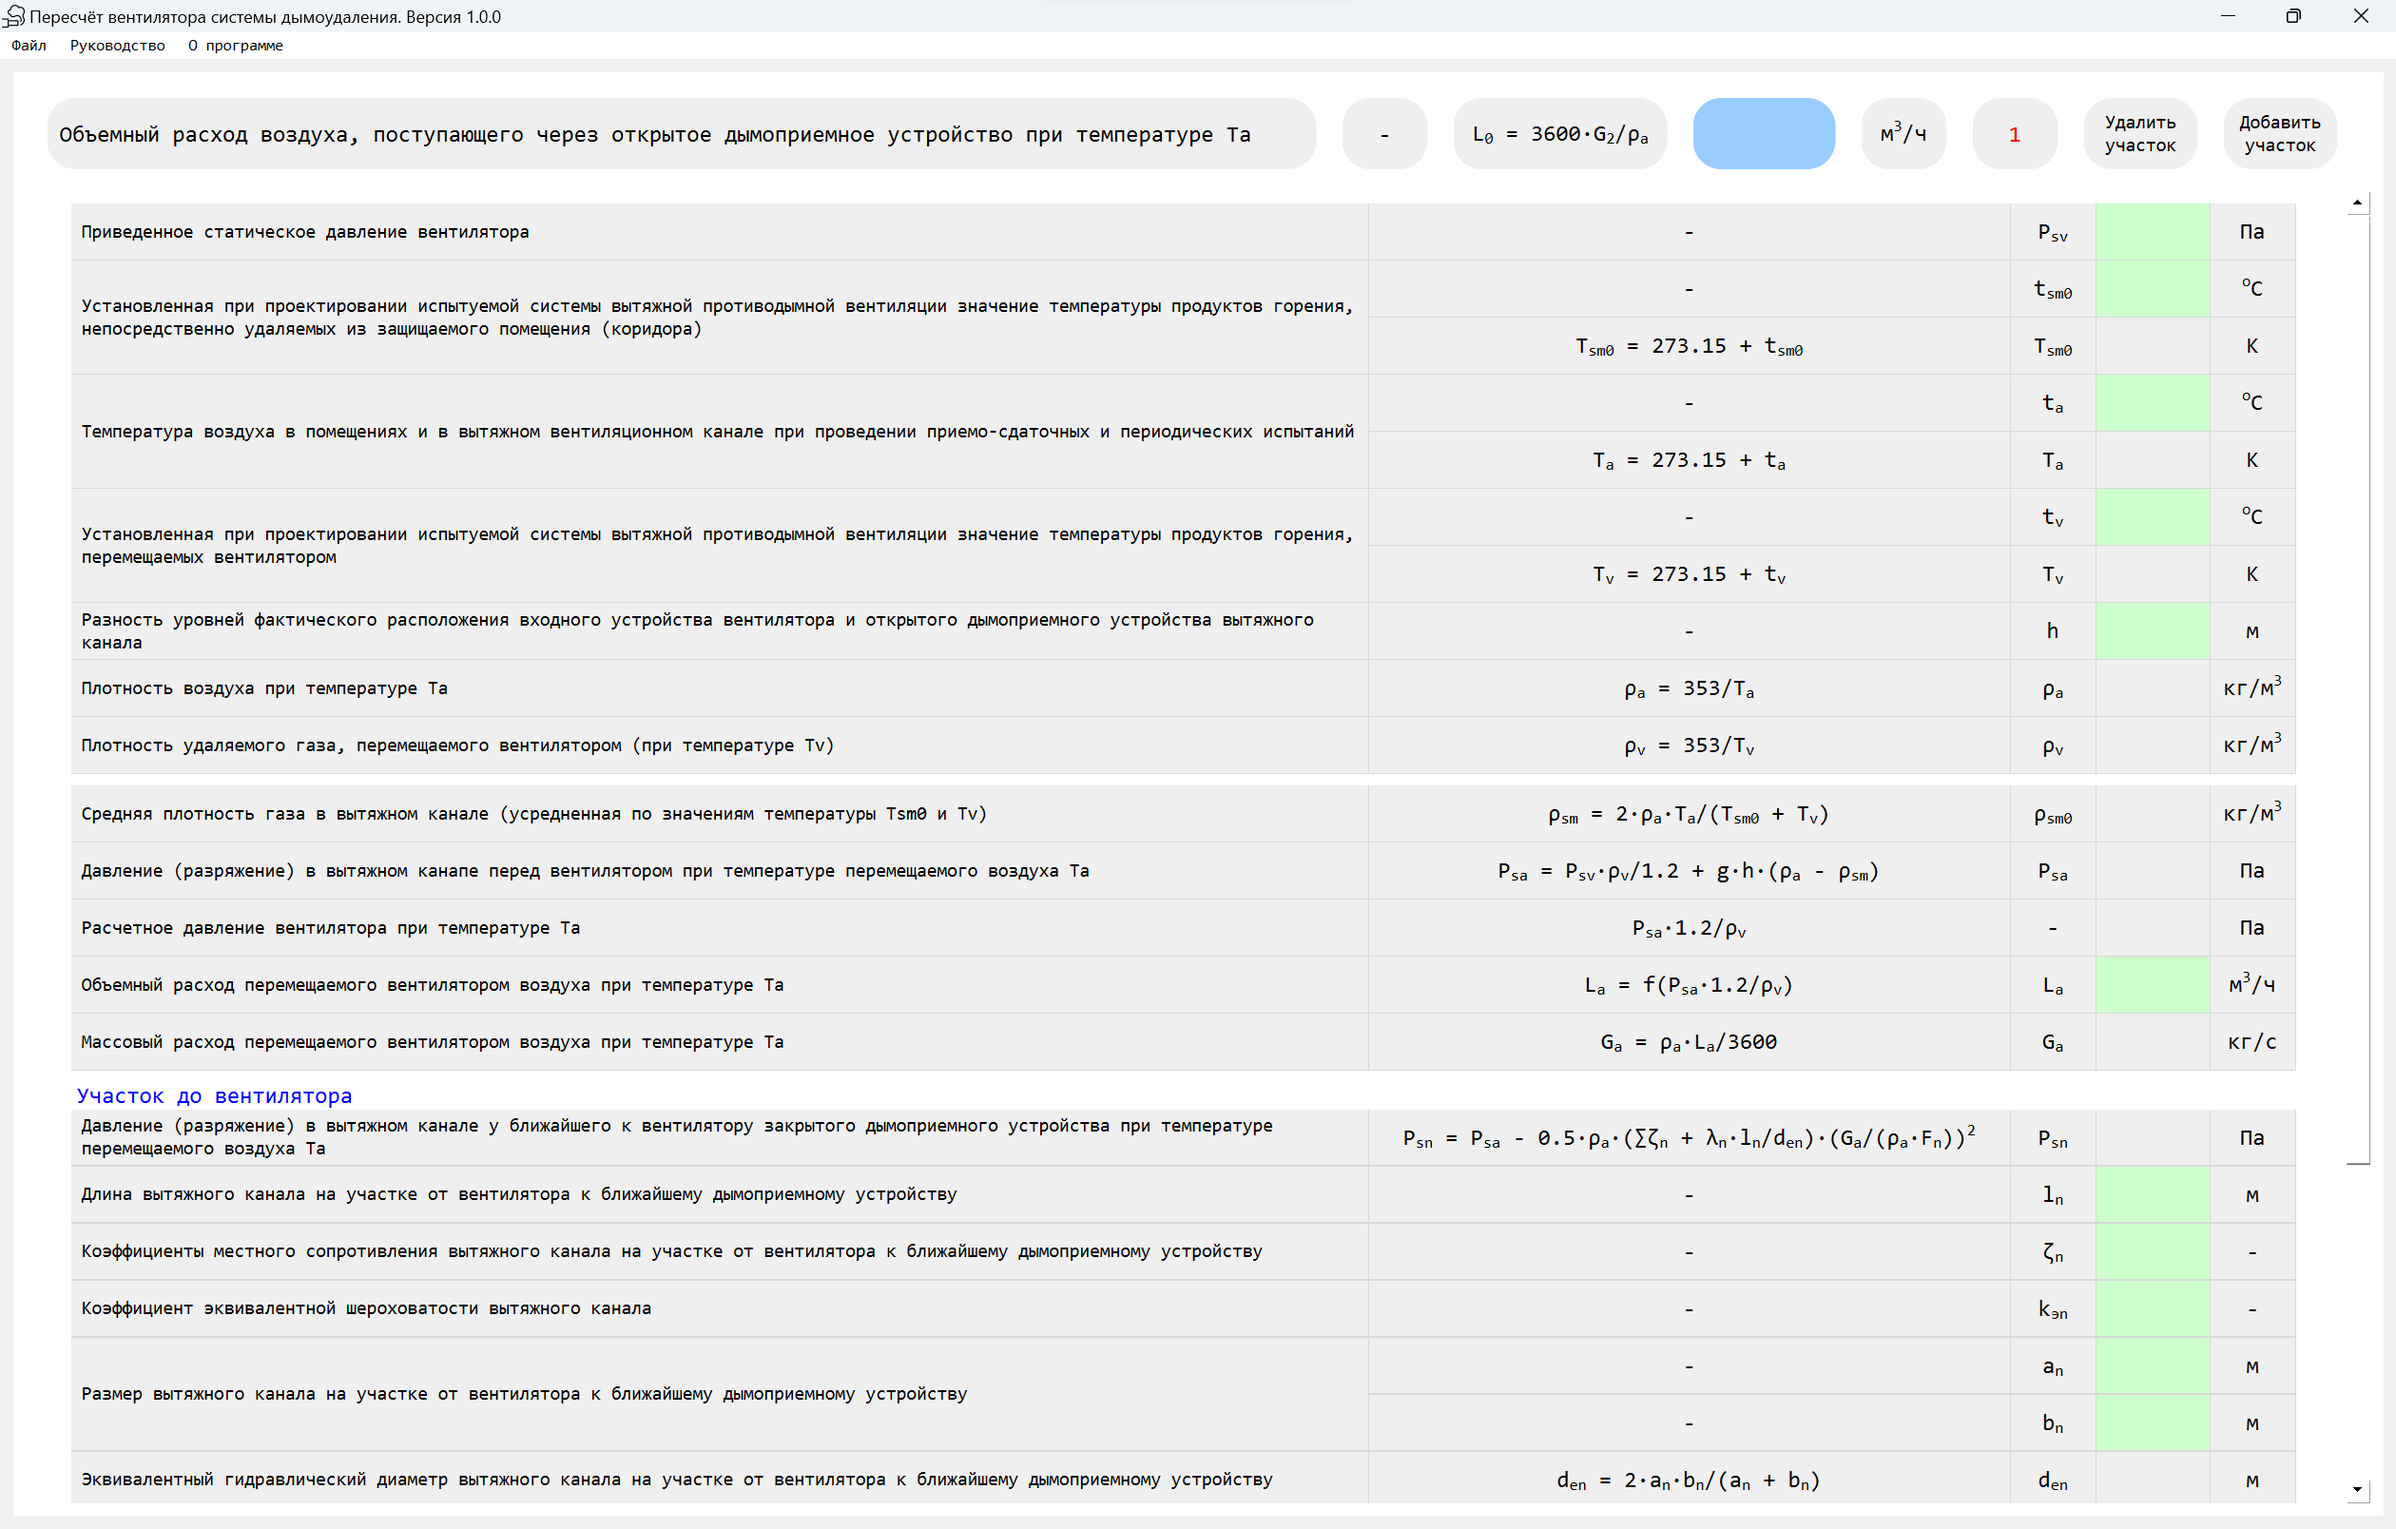
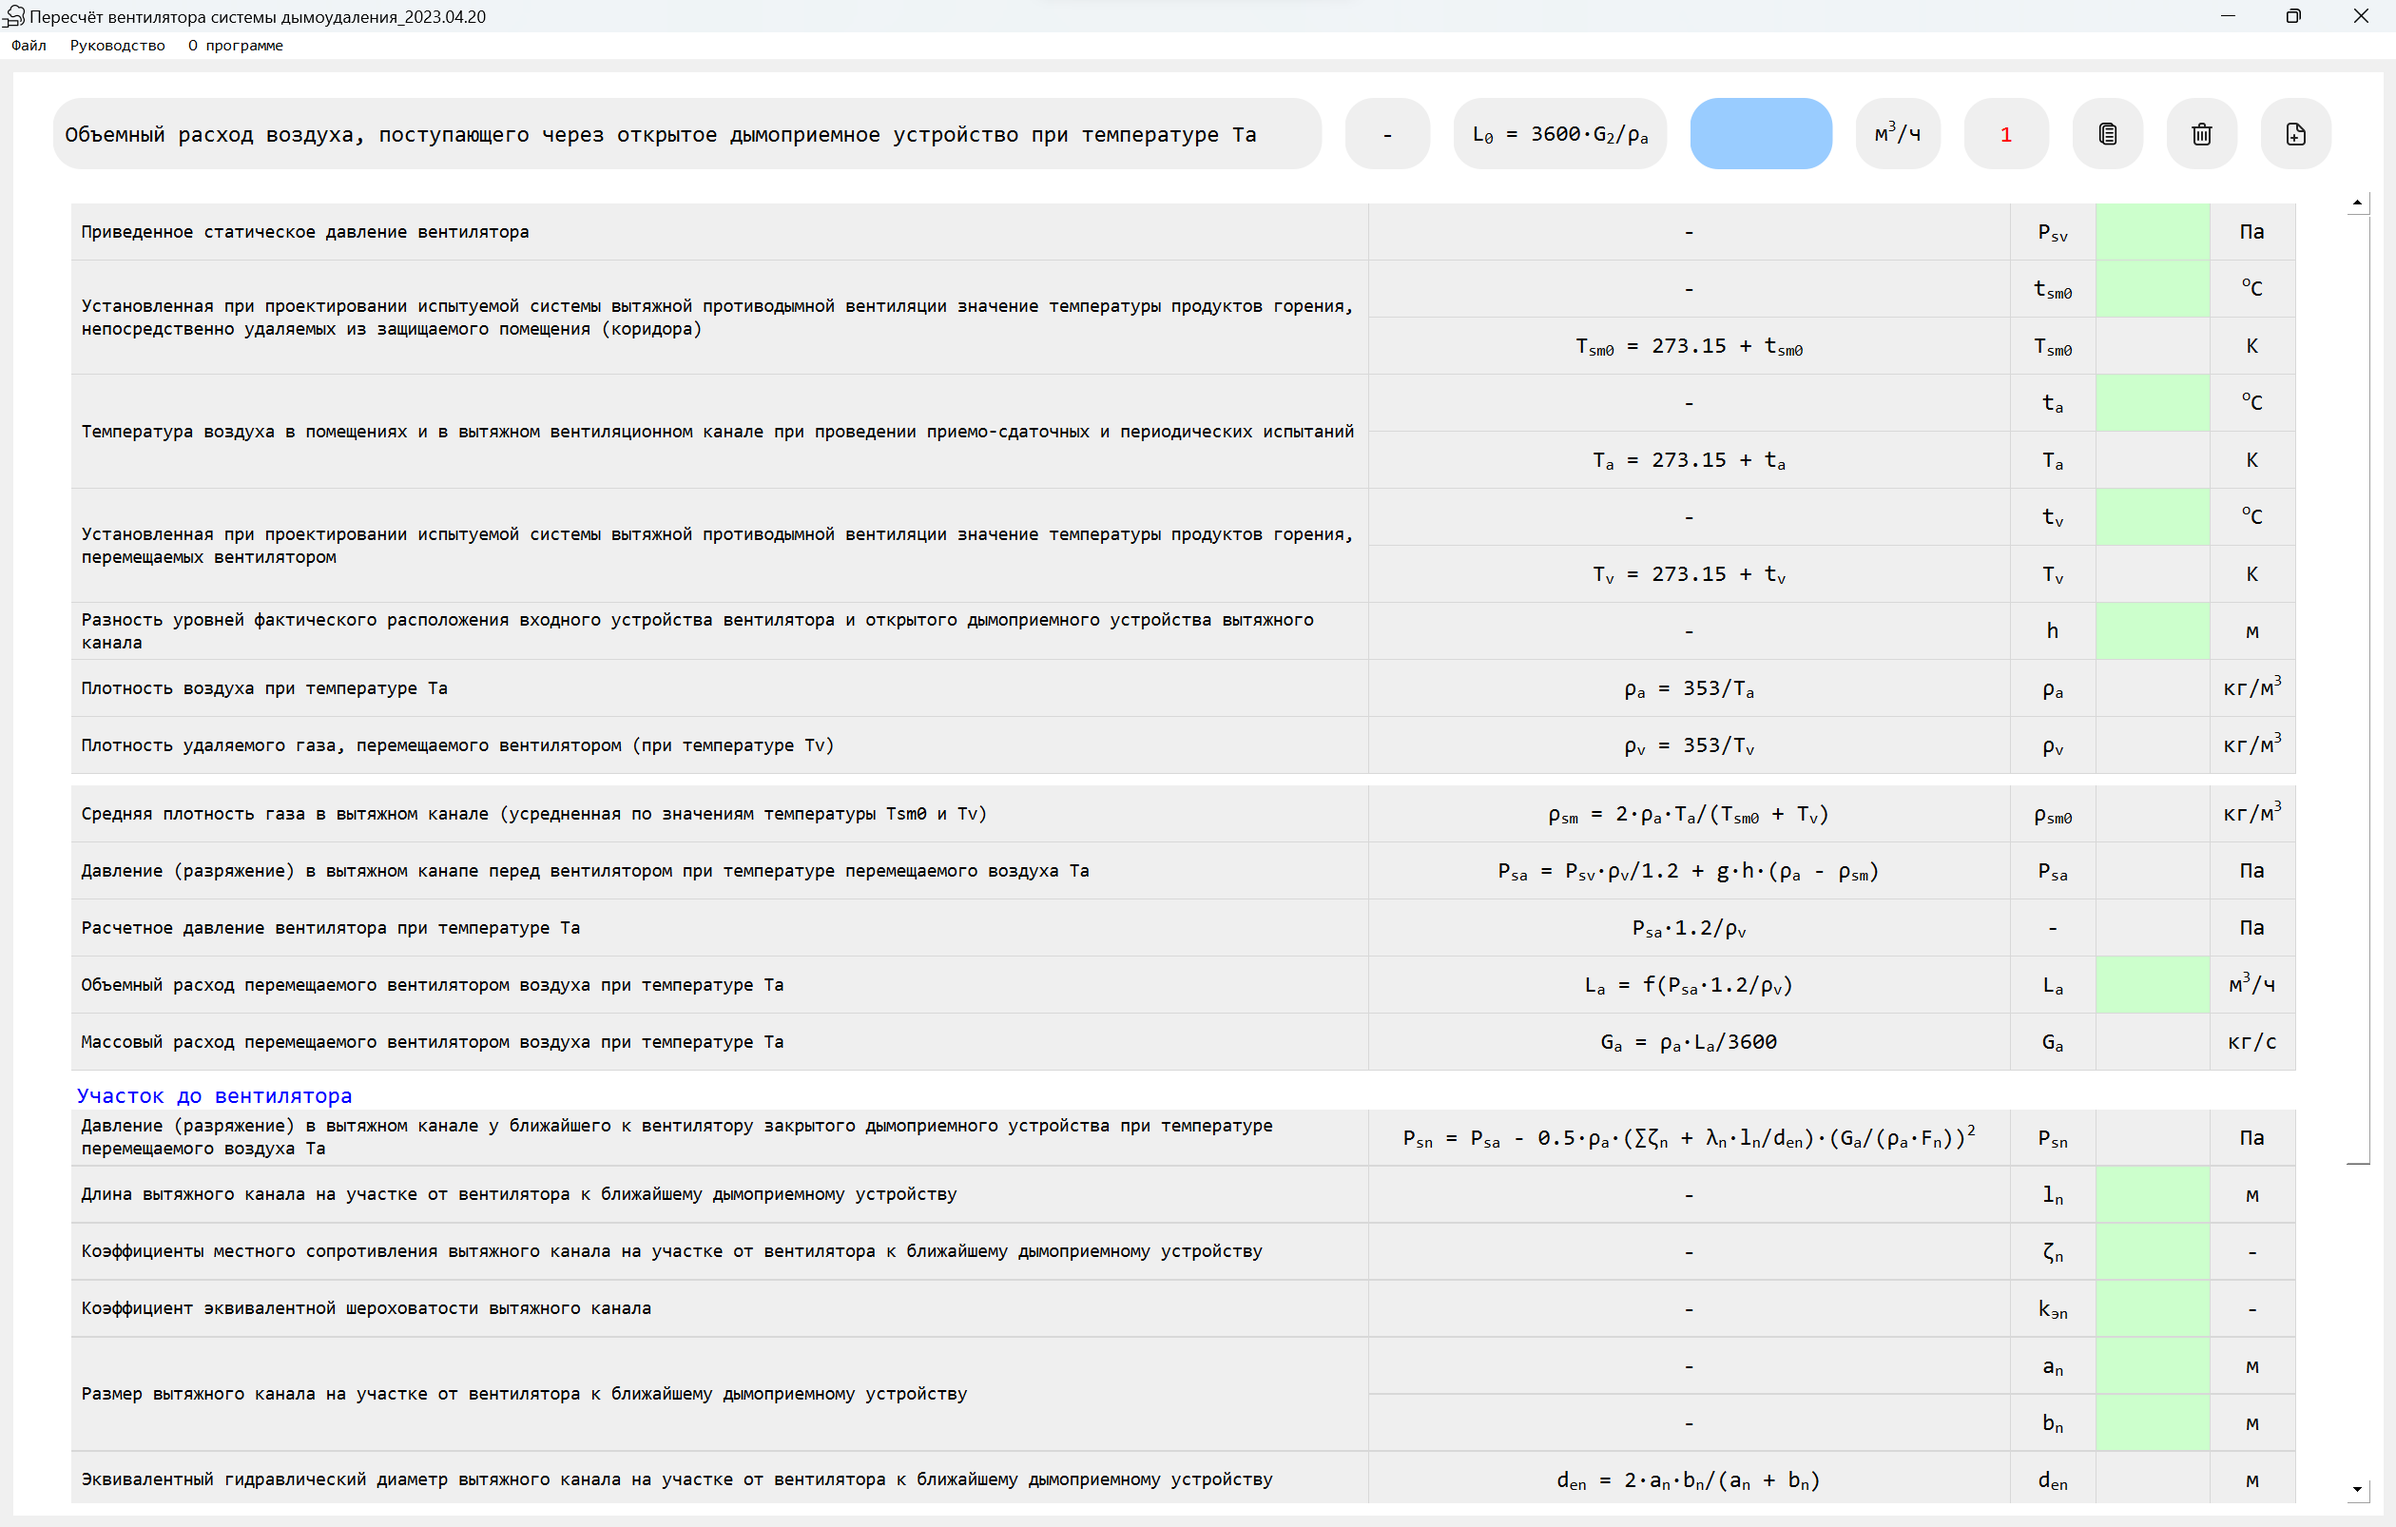
update interface + new button for copy table

diff --git a/app.py b/app.py
@@ -132,7 +132,6 @@ class MainWindow(QMainWindow):
         _widget = QWidget()
         _widget.setStyleSheet('background-color: white; ')
         _layout = QGridLayout()
-        _layout.setHorizontalSpacing(12)
         self.board = _layout
 
         labels = CONSTANTS.BOARD.LABELS
@@ -163,24 +162,36 @@ class MainWindow(QMainWindow):
                 label.setText('1')
                 label.setStyleSheet('QLabel { border-radius: 20px; background-color: #EFEFEF; color: red }')
 
+        self.copy_button = QPushButton()
+        copy_button = self.copy_button
+        copy_button.setFixedSize(50, 50)
+        copy_button.setIcon(QIcon(os.path.join(basedir, 'copy.png')))
+        copy_button.setStyleSheet('QPushButton { border-radius: 20px; background-color: #EFEFEF; } QPushButton:hover { border: 2px solid grey; background-color: #99CCFF }')
+        copy_button.setToolTip(CONSTANTS.BUTTONS.TOOLTIPS[0])
+
+        copy_button.clicked.connect(self.copy_table)
+
         self.add_button = QPushButton()
         add_button = self.add_button
-        add_button.setFixedSize(80, 50)
-        add_button.setText(CONSTANTS.BUTTONS.ADD)
-        add_button.setStyleSheet('QPushButton { border-radius: 20px; background-color: #EFEFEF; } QPushButton:hover { background-color: #66CC00; }')
+        add_button.setFixedSize(50, 50)
+        add_button.setIcon(QIcon(os.path.join(basedir, 'add.png')))
+        add_button.setStyleSheet('QPushButton { border-radius: 20px; background-color: #EFEFEF; } QPushButton:hover { border: 2px solid grey; background-color: #99FF99 }')
+        add_button.setToolTip(CONSTANTS.BUTTONS.TOOLTIPS[1])
 
         add_button.clicked.connect(self.add_table)
 
         self.delete_button = QPushButton()
         delete_button = self.delete_button
-        delete_button.setFixedSize(80, 50)
-        delete_button.setText(CONSTANTS.BUTTONS.DELETE)
-        delete_button.setStyleSheet('QPushButton { border-radius: 20px; background-color: #EFEFEF; } QPushButton:hover { background-color: #FF6666; }')
+        delete_button.setFixedSize(50, 50)
+        delete_button.setIcon(QIcon(os.path.join(basedir, 'delete.png')))
+        delete_button.setStyleSheet('QPushButton { border-radius: 20px; background-color: #EFEFEF; } QPushButton:hover { border: 2px solid grey; background-color: #FF9999 }')
+        delete_button.setToolTip(CONSTANTS.BUTTONS.TOOLTIPS[2])
 
         delete_button.clicked.connect(self.delete_table)
 
-        _layout.addWidget(delete_button, 0, 6)
-        _layout.addWidget(add_button, 0, 7)
+        _layout.addWidget(copy_button, 0, 6)
+        _layout.addWidget(delete_button, 0, 7)
+        _layout.addWidget(add_button, 0, 8)
 
         _widget.setLayout(_layout)
         return _widget
@@ -477,6 +488,18 @@ class MainWindow(QMainWindow):
             self.groupbox_count -= 1
             self._update_num_tables()
         self._update_result_after_delete_table()
+
+
+    def copy_table(self) -> None:
+        last_table = self.findChildren(QTableWidget, CONSTANTS.DEFAULT_TABLE.NAME)[-1]
+        data = [last_table.item(row, 3).text() for row in CONSTANTS.DEFAULT_TABLE.EDITABLE_ROWS]
+        if all(data):
+            self.add_table()
+            last_table = self.findChildren(QTableWidget, CONSTANTS.DEFAULT_TABLE.NAME)[-1]
+            for i, row in enumerate(CONSTANTS.DEFAULT_TABLE.EDITABLE_ROWS):
+                last_table.item(row, 3).setText(data[i])
+        else:
+            QMessageBox.information(self, "Информация", 'Чтобы скопировать таблицу, её нужно заполнить.')
 
 
     def open(self) -> None:

diff --git a/constants.py b/constants.py
@@ -25,6 +25,11 @@ class CONSTANTS:
     class BUTTONS:
         ADD = 'Добавить\nучасток'
         DELETE = 'Удалить\nучасток'
+        TOOLTIPS = (
+            'Копировать последнюю\nтаблицу',
+            'Добавить таблицу',
+            'Удалить таблицу',
+        )
 
 
     class TABLE1:
